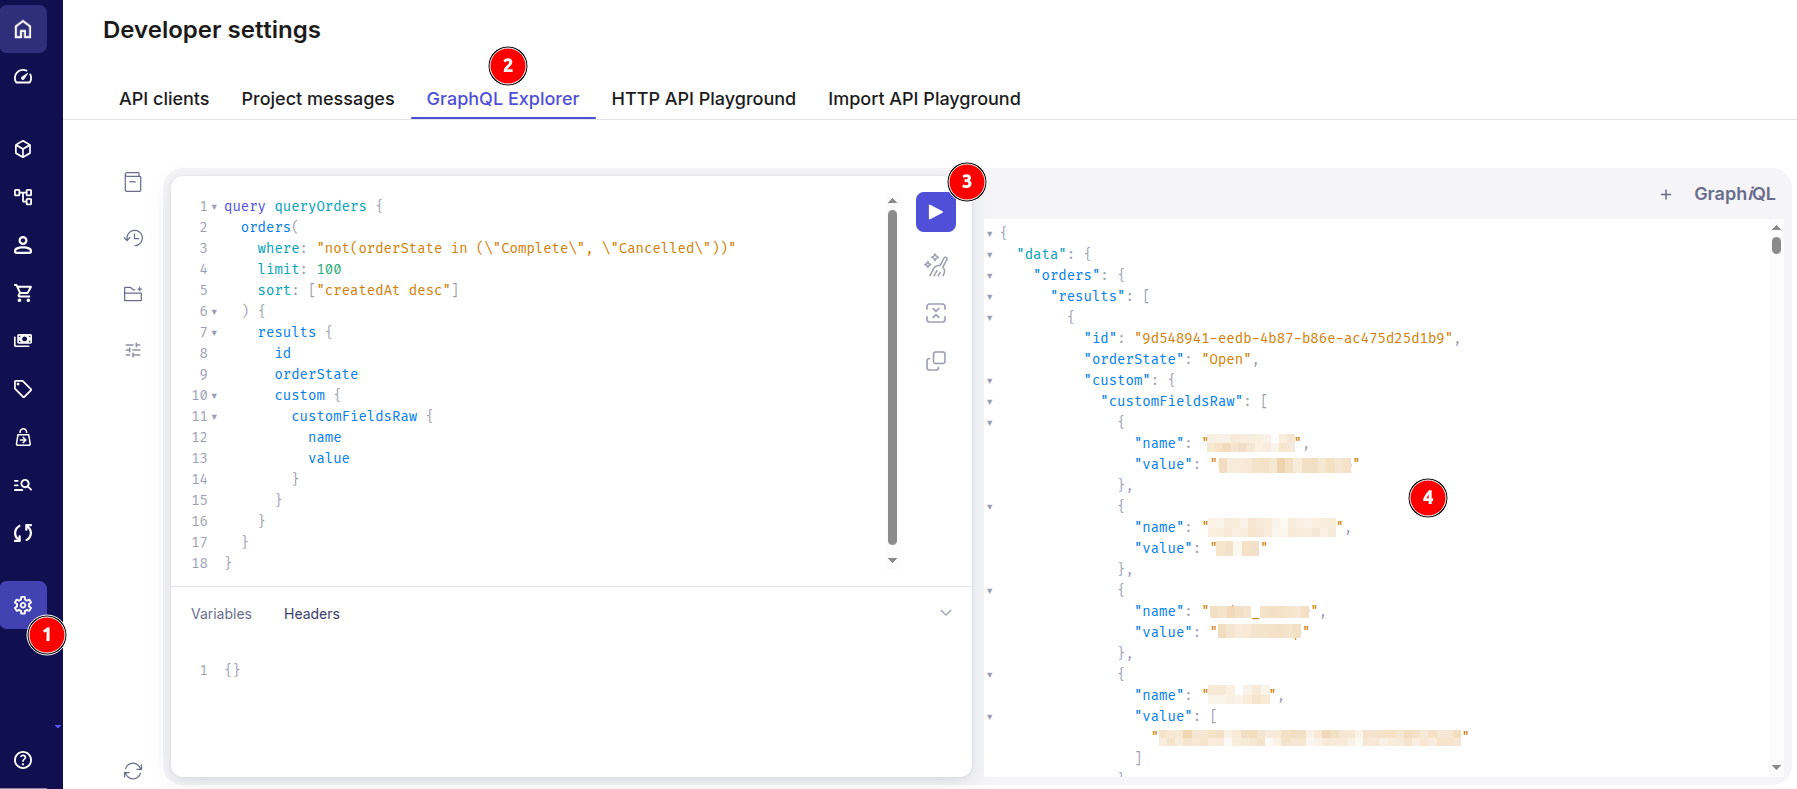
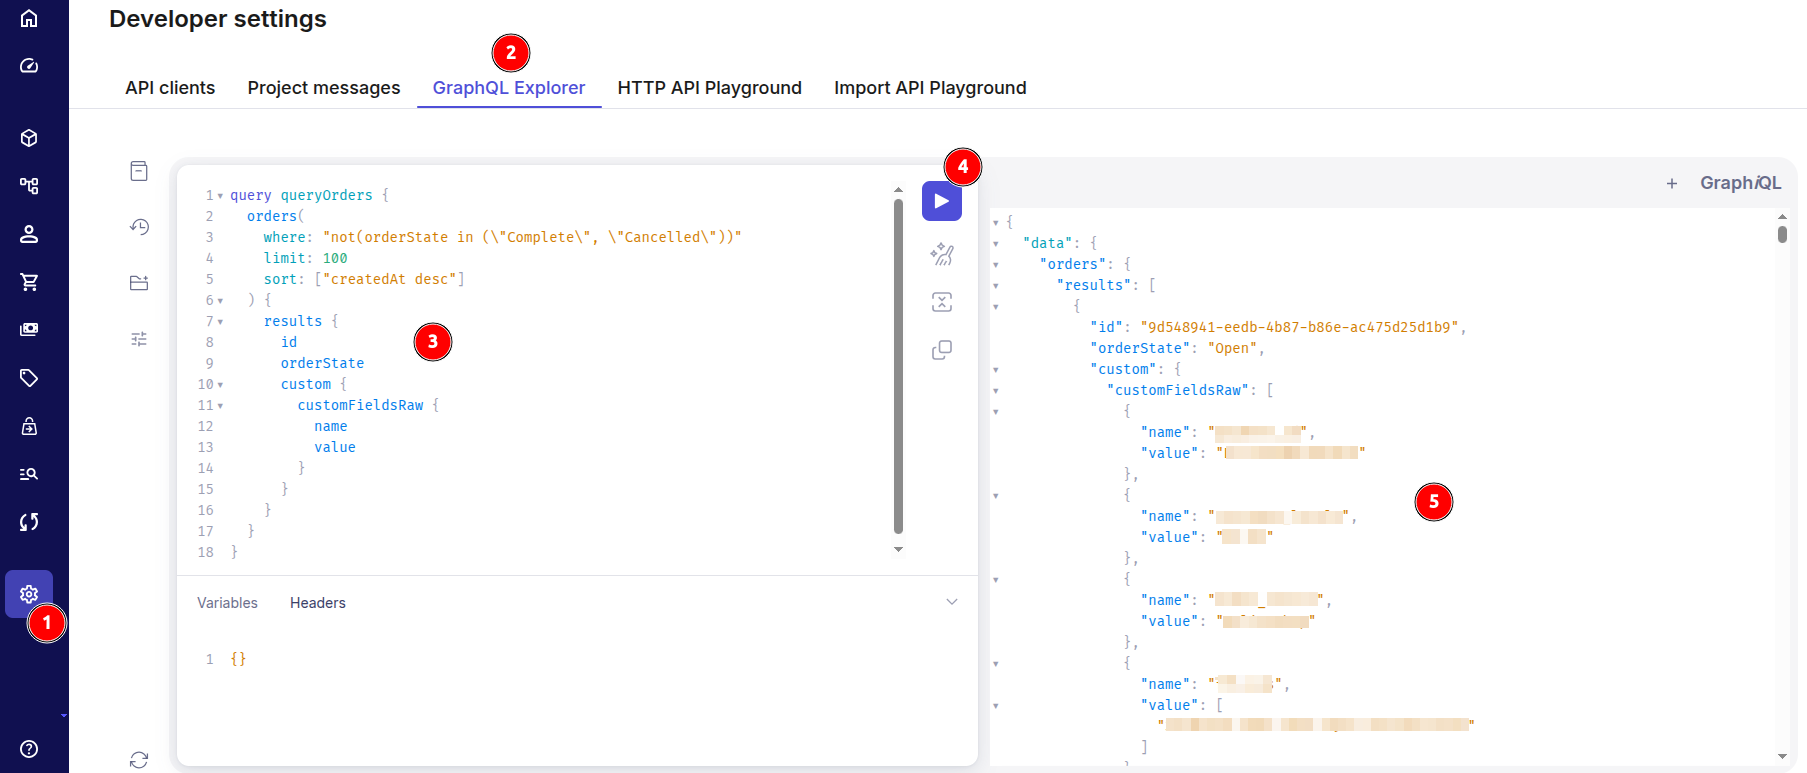
[CT] Add the graphql query itself

diff --git a/nuxt.config.ts b/nuxt.config.ts
@@ -63,7 +63,8 @@ export default defineNuxtConfig({
         'css',
         'csv',
         'properties',
-        'terraform'
+        'terraform',
+        'graphql'
       ],
       theme: {
         // Default theme (same as single string)

diff --git a/content/tutorials/commercetools-api-java-sdk-kotlin/index.md b/content/tutorials/commercetools-api-java-sdk-kotlin/index.md
@@ -728,6 +728,29 @@ The GraphQL Explorer can be found in the Developer Settings: https://mc.{your-re
 
 ![GraphQL Explorer](./graphql-developer-settings.png)
 
+The entered query looks like this:
+
+```graphql
+query queryOrders {
+  orders(
+    where: "not(orderState in (\"Complete\", \"Cancelled\"))"
+    limit: 100
+    sort: ["createdAt desc"]
+  ) {
+    results {
+      id
+      orderState
+      custom {
+        customFieldsRaw {
+          name
+          value
+        }
+      }
+    }
+  }
+}
+```
+
 ### Using the Java SDK
 
 Here is an example on how to only get the order id and custom fields of non complete and non cancelled orders:
